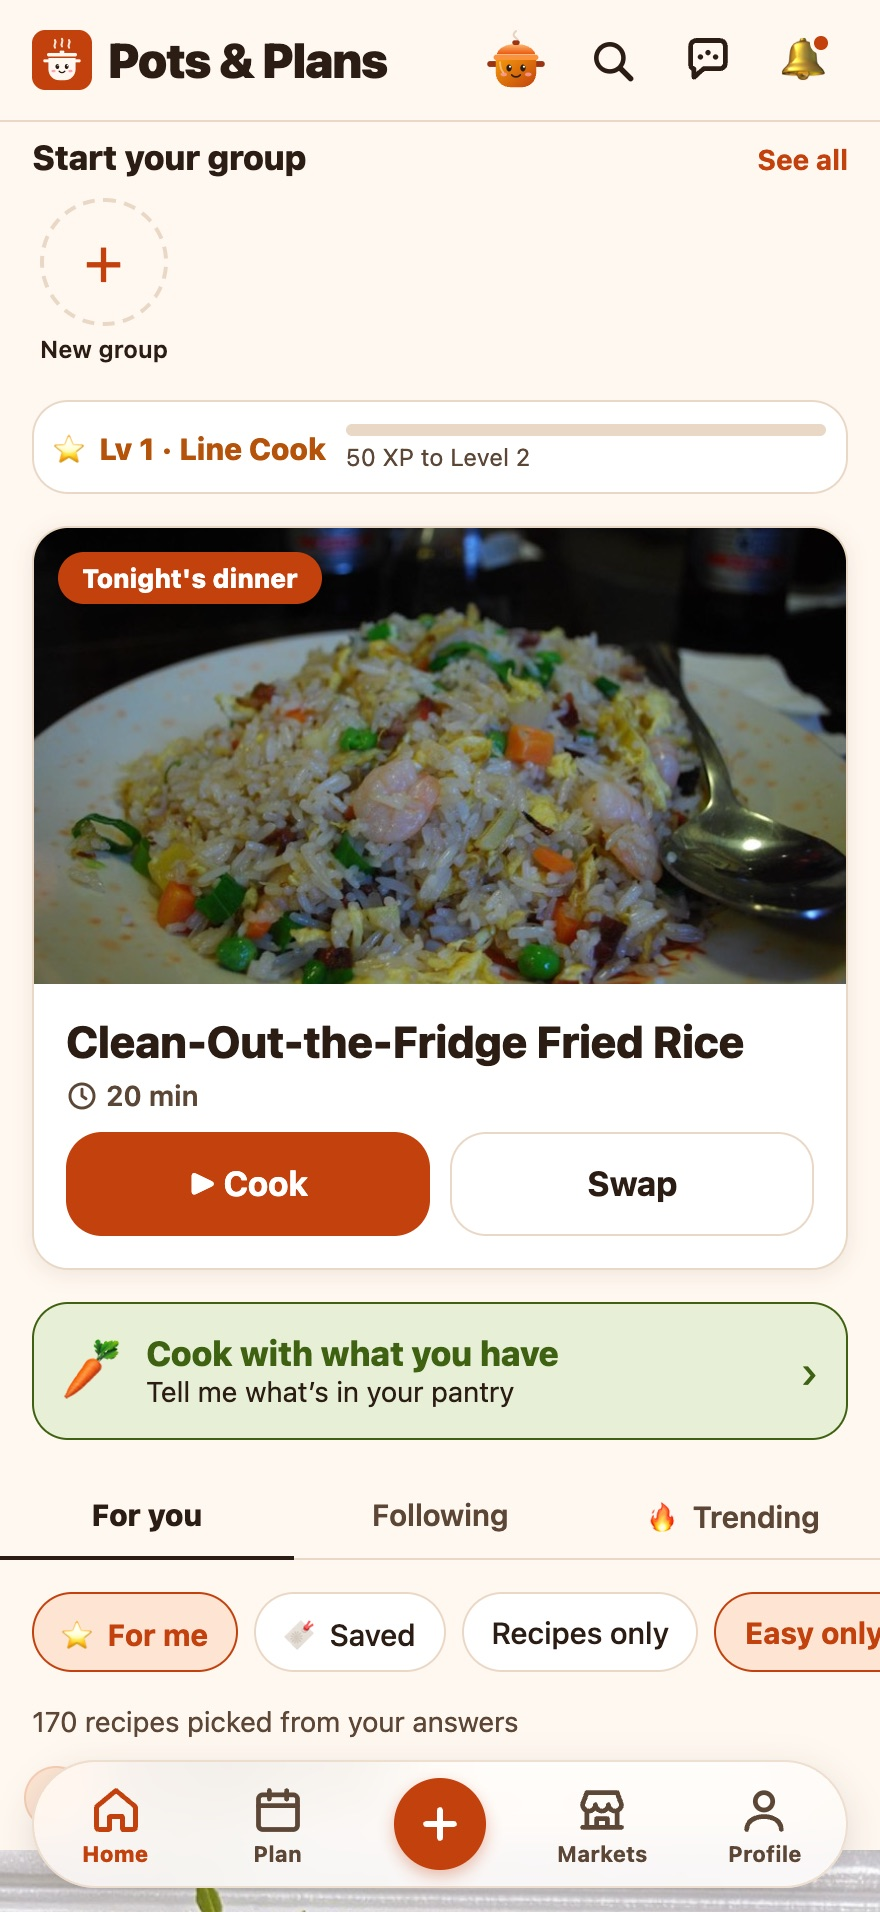
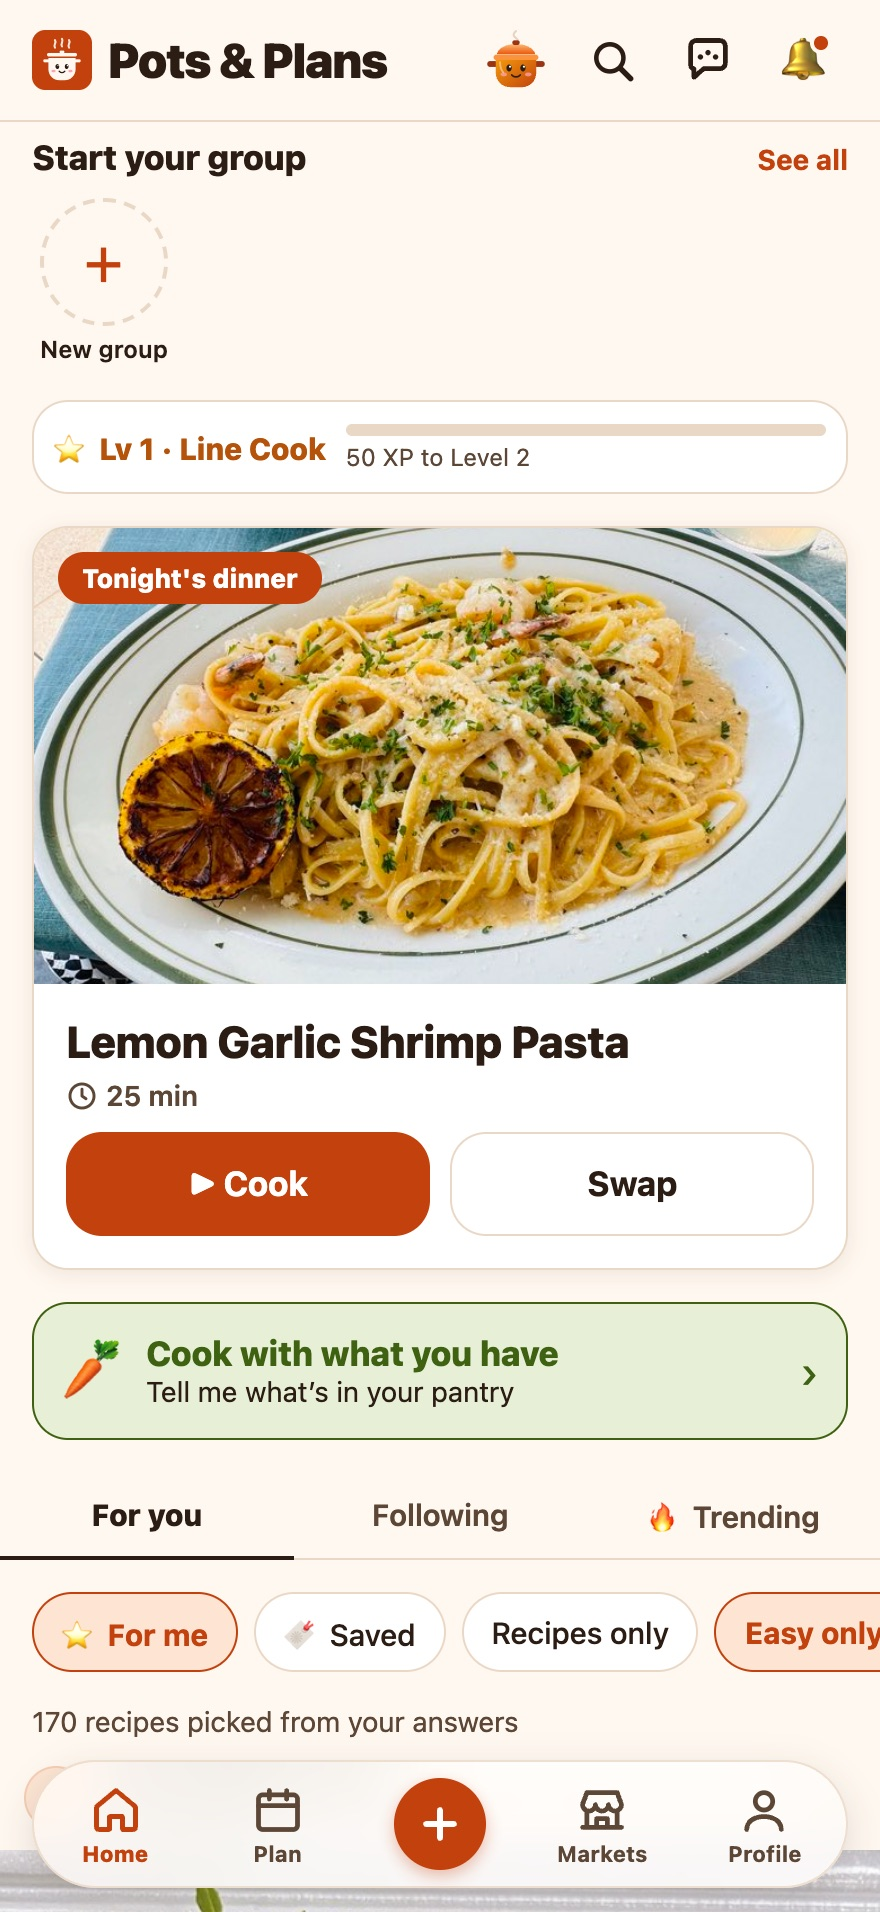
Website: Potsy-first copy, coming soon (no demo links), shrimp pasta hero, Potsy beside the phones
Claude-Session: https://claude.ai/code/session_01PTRcXb3KwXkFT3FZggBnK5

Changed region(s): [[0.0307, 0.2777, 0.9818, 0.5554]]

diff --git a/index.html b/index.html
@@ -4,7 +4,7 @@
   <meta charset="utf-8">
   <meta name="viewport" content="width=device-width, initial-scale=1">
   <title>Pots &amp; Plans: plan meals, feed the family</title>
-  <meta name="description" content="Pots & Plans plans your week of dinners around your family's budget, diets and allergies, then builds the grocery list for you. Coming to iPhone and Android.">
+  <meta name="description" content="Meet Potsy, your kitchen buddy. He plans your week of dinners around your family's budget, diets and allergies, then writes the grocery list for you. Coming soon to iPhone and Android.">
   <meta property="og:title" content="Pots & Plans">
   <meta property="og:description" content="Plan meals. Feed the family. Your week of dinners and the grocery list, planned around your table.">
   <meta property="og:image" content="https://getpotsandplans.com/img/og-logo.png">
@@ -15,7 +15,7 @@
   <link rel="preconnect" href="https://fonts.googleapis.com">
   <link rel="preconnect" href="https://fonts.gstatic.com" crossorigin>
   <link href="https://fonts.googleapis.com/css2?family=Fraunces:opsz,wght@9..144,600;9..144,700&family=Inter:wght@400;600;700&display=swap" rel="stylesheet">
-  <link rel="stylesheet" href="/style.css">
+  <link rel="stylesheet" href="/style.css?v=3">
 </head>
 <body>
   <header class="top">
@@ -24,7 +24,6 @@
       <nav>
         <a class="hide-sm" href="#features">Features</a>
         <a class="hide-sm" href="#screens">Screens</a>
-        <a class="btn small" href="https://enocherdner.github.io/pots-and-plans-demo/">Try the demo</a>
       </nav>
     </div>
   </header>
@@ -33,18 +32,16 @@
     <section class="hero">
       <div class="wrap">
         <div>
-          <span class="eyebrow">Coming this fall to iPhone and Android</span>
+          <span class="eyebrow">Coming soon to iPhone and Android</span>
           <h1>Plan meals.<br><em>Feed the family.</em></h1>
-          <p class="lead">Pots &amp; Plans plans your week of dinners around your table: how many you feed, your grocery budget, your diets and every allergy. Then it writes the grocery list for you.</p>
+          <p class="lead">Meet Potsy, your kitchen buddy. Tell him about your table (how many you feed, your budget, your diets and every allergy) and he plans your week of dinners and writes the grocery list for you.</p>
           <div class="cta-row">
-            <a class="btn" href="https://enocherdner.github.io/pots-and-plans-demo/">Try the demo &rarr;</a>
-            <a class="btn ghost" href="#features">See what it does</a>
+            <a class="btn" href="#features">See what it does &darr;</a>
           </div>
-          <p class="note">The demo runs right in your browser. No sign-up, no download.</p>
         </div>
         <div class="hero-phones" aria-hidden="true">
-          <div class="phone back"><img src="/img/screens/plan.jpg?v=2" alt=""></div>
-          <div class="phone front"><img src="/img/screens/home.jpg?v=2" alt=""></div>
+          <div class="phone back"><img src="/img/screens/plan.jpg?v=3" alt=""></div>
+          <div class="phone front"><img src="/img/screens/home.jpg?v=3" alt=""></div>
           <img class="potsy" src="/img/potsy-waving.svg" alt="">
         </div>
       </div>
@@ -54,18 +51,18 @@
       <div class="wrap">
         <div class="section-head">
           <h2>Dinner, handled.</h2>
-          <p>Everything between "what's for dinner?" and the dishes, in one app.</p>
+          <p>Potsy handles everything between "what's for dinner?" and the dishes.</p>
         </div>
         <div class="features">
-          <div class="feature"><div class="icon">📅</div><h3>Your week in one tap</h3><p>Pick the days, and get 7 or 14 dinners that fit your budget. Lunches, breakfasts and desserts too, if you want them.</p></div>
-          <div class="feature"><div class="icon">🛡</div><h3>Allergy safe</h3><p>Tell it once. Recipes and posts with an allergen anyone at your table avoids never show up.</p></div>
-          <div class="feature"><div class="icon">🛒</div><h3>The list writes itself</h3><p>Every ingredient lands on one list, sorted by store aisle, minus what's already in your pantry.</p></div>
-          <div class="feature"><div class="icon">👨👩👧</div><h3>Shared with your household</h3><p>One grocery list on every phone at home. Anyone can add things or tick them off at the store.</p></div>
-          <div class="feature"><div class="icon">🦃</div><h3>Groups and potlucks</h3><p>Start a group for the family or for Thanksgiving, split the menu, and see who's bringing what.</p></div>
-          <div class="feature"><div class="icon">🧺</div><h3>Farmers markets nearby</h3><p>A map of the markets around you, with days, hours and directions.</p></div>
-          <div class="feature"><div class="icon">📸</div><h3>Share what you cooked</h3><p>Post tonight's dinner or a short cooking video, follow other home cooks, and save what you want to make.</p></div>
-          <div class="feature"><div class="icon">⏱</div><h3>Cook mode</h3><p>One big step at a time with built-in timers, so you're never scrolling with messy hands.</p></div>
-          <div class="feature"><div class="icon">🏅</div><h3>Level up</h3><p>Climb from Line Cook to Pot Legend as you cook and share.</p></div>
+          <div class="feature"><div class="icon">📅</div><h3>Your week in one tap</h3><p>Pick the days and Potsy plans 7 or 14 dinners that fit your budget. Lunches, breakfasts and desserts too, if you want them.</p></div>
+          <div class="feature"><div class="icon">🛡</div><h3>Tell Potsy once</h3><p>Tell him about every allergy at your table, and he keeps those foods out of your recipes, your plan and your feed.</p></div>
+          <div class="feature"><div class="icon">🛒</div><h3>Your grocery list, done</h3><p>Potsy writes the list for your whole week, sorted by store aisle, minus what's already in your pantry.</p></div>
+          <div class="feature"><div class="icon">👨👩👧</div><h3>Shared with your household</h3><p>One grocery list on every phone at home. Anyone can add to it or check things off at the store.</p></div>
+          <div class="feature"><div class="icon">🦃</div><h3>Groups and potlucks</h3><p>Start a group for the family or for Thanksgiving. Split the menu and see who's bringing what.</p></div>
+          <div class="feature"><div class="icon">🧺</div><h3>Farmers markets nearby</h3><p>Find the markets around you on a real map, with days, hours and directions.</p></div>
+          <div class="feature"><div class="icon">📸</div><h3>Share what you cooked</h3><p>Post tonight's dinner or a short cooking video, follow other home cooks, and save the dishes you want to make.</p></div>
+          <div class="feature"><div class="icon">⏱</div><h3>Cook with Potsy</h3><p>He walks you through one big step at a time, with timers built in, so you're never scrolling with messy hands.</p></div>
+          <div class="feature"><div class="icon">🏅</div><h3>Level up</h3><p>Climb from Line Cook to Pot Legend as you cook and share, and unlock new looks for Potsy along the way.</p></div>
         </div>
       </div>
     </section>
@@ -77,13 +74,13 @@
           <p>Real screens from the app. Swipe through.</p>
         </div>
         <div class="rail">
-          <figure><div class="phone"><img src="/img/screens/home.jpg?v=2" alt="Home screen with tonight's dinner" loading="lazy"></div><figcaption>Tonight's dinner<span>Cook it or swap it</span></figcaption></figure>
-          <figure><div class="phone"><img src="/img/screens/plan.jpg?v=2" alt="A week of planned dinners" loading="lazy"></div><figcaption>Your week<span>Planned in one tap</span></figcaption></figure>
-          <figure><div class="phone"><img src="/img/screens/list.jpg?v=2" alt="Grocery list sorted by aisle" loading="lazy"></div><figcaption>Grocery list<span>Sorted by aisle, on budget</span></figcaption></figure>
-          <figure><div class="phone"><img src="/img/screens/recipe.jpg?v=2" alt="A recipe page" loading="lazy"></div><figcaption>500+ recipes<span>Cost per serving, every one</span></figcaption></figure>
-          <figure><div class="phone"><img src="/img/screens/feed.jpg?v=2" alt="The recipe feed" loading="lazy"></div><figcaption>The feed<span>Picked from your answers</span></figcaption></figure>
-          <figure><div class="phone"><img src="/img/screens/potsy.jpg?v=2" alt="Asking Potsy for dinner ideas" loading="lazy"></div><figcaption>Ask Potsy<span>Ideas in seconds</span></figcaption></figure>
-          <figure><div class="phone"><img src="/img/screens/markets.jpg?v=2" alt="Farmers market map" loading="lazy"></div><figcaption>Farmers markets<span>Map or satellite, near you</span></figcaption></figure>
+          <figure><div class="phone"><img src="/img/screens/home.jpg?v=3" alt="Home screen with tonight's dinner" loading="lazy"></div><figcaption>Tonight's dinner<span>Cook it or swap it</span></figcaption></figure>
+          <figure><div class="phone"><img src="/img/screens/plan.jpg?v=3" alt="A week of planned dinners" loading="lazy"></div><figcaption>Your week<span>Planned in one tap</span></figcaption></figure>
+          <figure><div class="phone"><img src="/img/screens/list.jpg?v=3" alt="Grocery list sorted by aisle" loading="lazy"></div><figcaption>Grocery list<span>Sorted by aisle, on budget</span></figcaption></figure>
+          <figure><div class="phone"><img src="/img/screens/recipe.jpg?v=3" alt="A recipe page" loading="lazy"></div><figcaption>500+ recipes<span>Cost per serving, every one</span></figcaption></figure>
+          <figure><div class="phone"><img src="/img/screens/feed.jpg?v=3" alt="The recipe feed" loading="lazy"></div><figcaption>The feed<span>Picked from your answers</span></figcaption></figure>
+          <figure><div class="phone"><img src="/img/screens/potsy.jpg?v=3" alt="Asking Potsy for dinner ideas" loading="lazy"></div><figcaption>Ask Potsy<span>Dinner ideas in seconds</span></figcaption></figure>
+          <figure><div class="phone"><img src="/img/screens/markets.jpg?v=3" alt="Farmers market map" loading="lazy"></div><figcaption>Farmers markets<span>Map or satellite, near you</span></figcaption></figure>
         </div>
       </div>
     </section>
@@ -93,8 +90,8 @@
         <img src="/img/potsy-waving.svg" alt="Potsy, the Pots & Plans pot, waving">
         <div>
           <h2>Meet Potsy, your kitchen buddy.</h2>
-          <p>Ask for dinner ideas, what you can make with what's in the fridge, or how to do anything in the app. Potsy knows your table, so the answers fit your family.</p>
-          <a class="btn" href="https://enocherdner.github.io/pots-and-plans-demo/">Say hi to Potsy &rarr;</a>
+          <p>Potsy is your chef friend in the app. Ask him for dinner ideas, what to make with what's in your fridge, or how anything works. He knows your table, so his answers fit your family.</p>
+          <p>And he's yours: dress him up with hats, colors and outfits you unlock as you cook.</p>
         </div>
       </div>
     </section>
@@ -102,8 +99,7 @@
     <section class="final">
       <div class="wrap">
         <h2>Cook more. Stress less.</h2>
-        <p>Pots &amp; Plans is free and coming soon to the App Store and Google Play. Try the whole thing in your browser today.</p>
-        <a class="btn" href="https://enocherdner.github.io/pots-and-plans-demo/">Try the demo &rarr;</a>
+        <p>Pots &amp; Plans is free and coming soon to iPhone and Android.</p>
       </div>
     </section>
   </main>

diff --git a/style.css b/style.css
@@ -58,9 +58,9 @@ h1, h2, h3 { font-family: "Fraunces", Georgia, serif; line-height: 1.12; margin:
 .note { font-size: 14px; color: var(--ink-soft); margin-top: 14px; }
 .hero-phones { position: relative; display: flex; justify-content: center; min-height: 560px; }
 .hero-phones .phone { position: absolute; left: 50%; width: 260px; }
-.hero-phones .phone.back { transform: translateX(calc(-50% - 110px)) rotate(-6deg) scale(.9); top: 40px; opacity: .97; }
-.hero-phones .phone.front { transform: translateX(calc(-50% + 90px)) rotate(4deg); top: 0; }
-.hero-phones .potsy { position: absolute; width: 120px; bottom: -10px; left: 8%; filter: drop-shadow(0 8px 14px rgba(0,0,0,.15)); }
+.hero-phones .phone.back { transform: translateX(calc(-50% - 95px)) rotate(-6deg) scale(.9); top: 40px; opacity: .97; }
+.hero-phones .phone.front { transform: translateX(calc(-50% + 95px)) rotate(4deg); top: 0; }
+.hero-phones .potsy { position: absolute; width: 120px; bottom: 10px; left: calc(50% - 360px); filter: drop-shadow(0 8px 14px rgba(0,0,0,.15)); }
 
 /* Phone frame */
 .phone {
@@ -120,9 +120,9 @@ footer a { color: var(--ink-soft); }
   .cta-row { justify-content: center; }
   .hero-phones { min-height: 480px; }
   .hero-phones .phone { width: 220px; }
-  .hero-phones .phone.back { transform: translateX(calc(-50% - 80px)) rotate(-6deg) scale(.9); }
-  .hero-phones .phone.front { transform: translateX(calc(-50% + 70px)) rotate(4deg); }
-  .hero-phones .potsy { width: 90px; left: 2%; }
+  .hero-phones .phone.back { transform: translateX(calc(-50% - 30px)) rotate(-6deg) scale(.9); }
+  .hero-phones .phone.front { transform: translateX(calc(-50% + 110px)) rotate(4deg); }
+  .hero-phones .potsy { width: 90px; left: calc(50% - 250px); }
   .features { grid-template-columns: 1fr 1fr; }
   .potsy-band .wrap { grid-template-columns: 1fr; text-align: center; padding: 30px 22px; }
   .potsy-band img { width: 140px; margin: 0 auto; }
@@ -135,7 +135,8 @@ footer a { color: var(--ink-soft); }
   .hero-phones { min-height: 400px; }
   .hero-phones .phone { width: 180px; border-radius: 30px; padding: 7px; }
   .hero-phones .phone img { border-radius: 24px; }
-  .hero-phones .phone.back { transform: translateX(calc(-50% - 62px)) rotate(-6deg) scale(.9); }
-  .hero-phones .phone.front { transform: translateX(calc(-50% + 56px)) rotate(4deg); }
+  .hero-phones .phone.back { transform: translateX(calc(-50% - 12px)) rotate(-6deg) scale(.9); }
+  .hero-phones .phone.front { transform: translateX(calc(-50% + 90px)) rotate(4deg); }
+  .hero-phones .potsy { width: 64px; left: 2px; bottom: 0; }
   .rail figure { flex-basis: 210px; }
 }

diff --git a/privacy/index.html b/privacy/index.html
@@ -11,13 +11,13 @@
   <link rel="preconnect" href="https://fonts.googleapis.com">
   <link rel="preconnect" href="https://fonts.gstatic.com" crossorigin>
   <link href="https://fonts.googleapis.com/css2?family=Fraunces:opsz,wght@9..144,600;9..144,700&family=Inter:wght@400;600;700&display=swap" rel="stylesheet">
-  <link rel="stylesheet" href="/style.css">
+  <link rel="stylesheet" href="/style.css?v=3">
 </head>
 <body>
   <header class="top">
     <div class="wrap">
       <a class="brand" href="/"><img src="/img/logo.svg" alt="">Pots &amp; Plans</a>
-      <nav><a class="btn small" href="https://enocherdner.github.io/pots-and-plans-demo/">Try the demo</a></nav>
+      <nav><a href="/">Home</a></nav>
     </div>
   </header>
   <main>

diff --git a/terms/index.html b/terms/index.html
@@ -11,13 +11,13 @@
   <link rel="preconnect" href="https://fonts.googleapis.com">
   <link rel="preconnect" href="https://fonts.gstatic.com" crossorigin>
   <link href="https://fonts.googleapis.com/css2?family=Fraunces:opsz,wght@9..144,600;9..144,700&family=Inter:wght@400;600;700&display=swap" rel="stylesheet">
-  <link rel="stylesheet" href="/style.css">
+  <link rel="stylesheet" href="/style.css?v=3">
 </head>
 <body>
   <header class="top">
     <div class="wrap">
       <a class="brand" href="/"><img src="/img/logo.svg" alt="">Pots &amp; Plans</a>
-      <nav><a class="btn small" href="https://enocherdner.github.io/pots-and-plans-demo/">Try the demo</a></nav>
+      <nav><a href="/">Home</a></nav>
     </div>
   </header>
   <main>

diff --git a/build-legal.py b/build-legal.py
@@ -67,7 +67,7 @@ TEMPLATE = """<!doctype html>
   <header class="top">
     <div class="wrap">
       <a class="brand" href="/"><img src="/img/logo.svg" alt="">Pots &amp; Plans</a>
-      <nav><a class="btn small" href="https://enocherdner.github.io/pots-and-plans-demo/">Try the demo</a></nav>
+      <nav><a href="/">Home</a></nav>
     </div>
   </header>
   <main>
